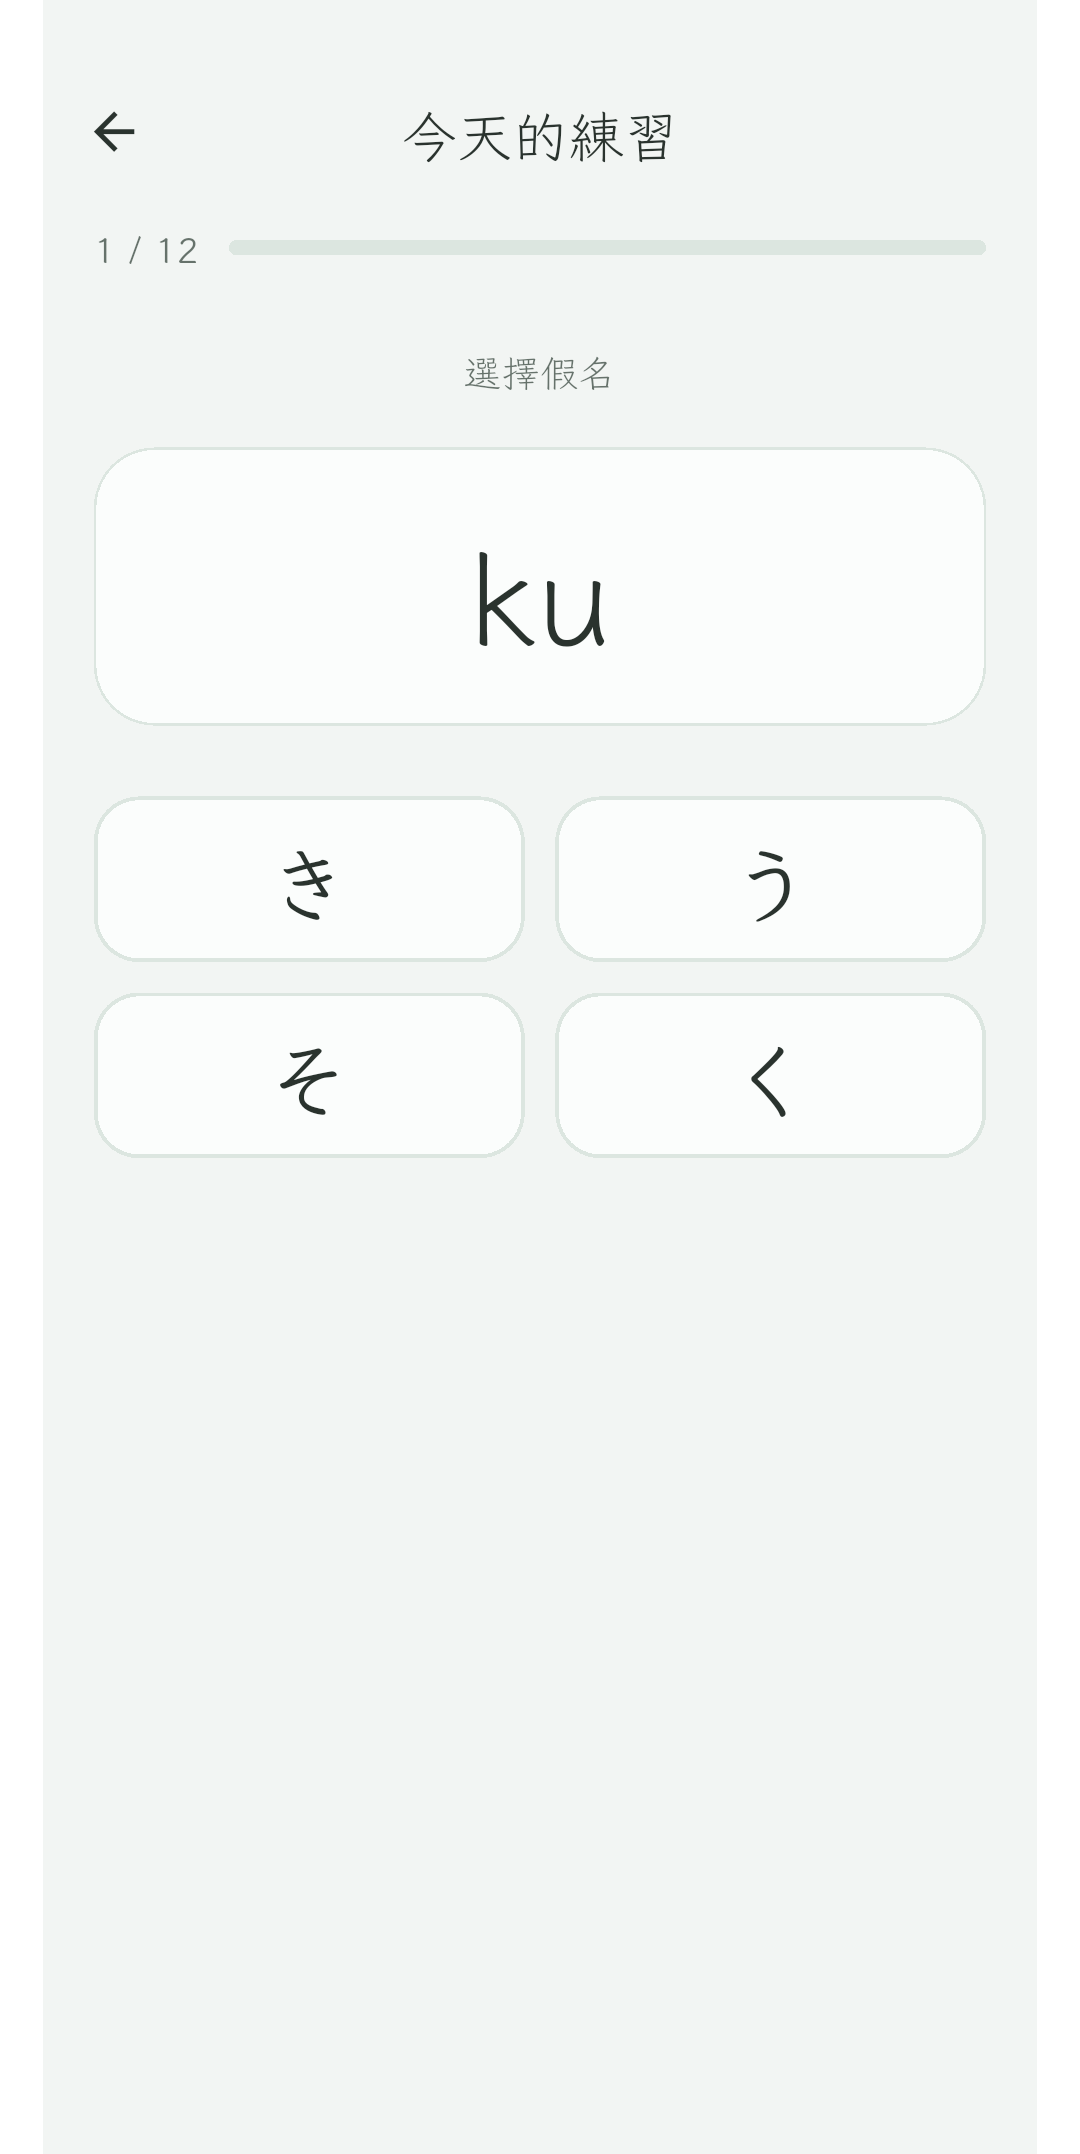
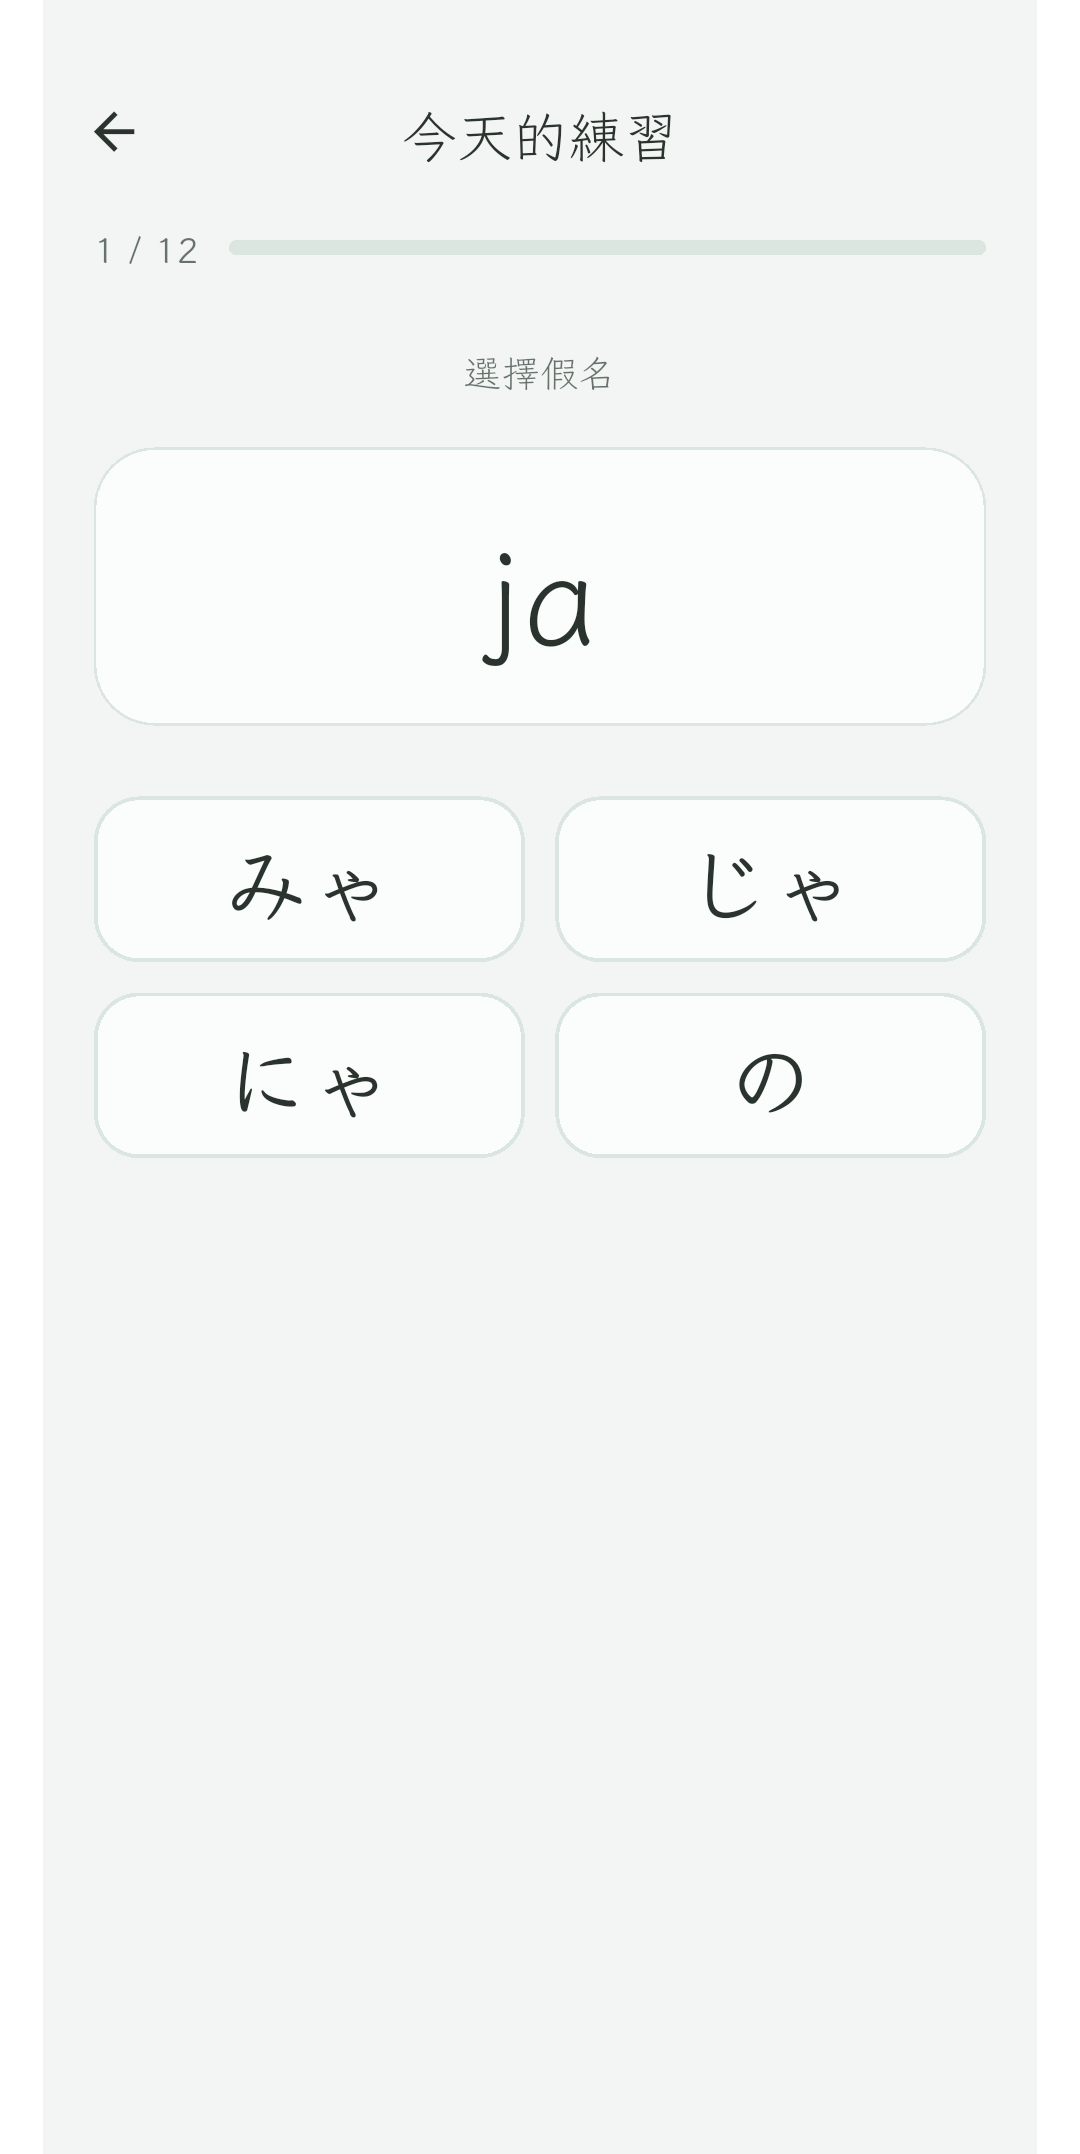
docs: capture the sentence reading screen
Harness now seeds all hiragana so every track unlocks; adds 06-sentence.

diff --git a/integration_test/screenshot_capture.dart b/integration_test/screenshot_capture.dart
@@ -8,6 +8,8 @@ import 'package:kotonoha/app.dart';
 import 'package:kotonoha/data/repositories/kana_progress_repository.dart';
 import 'package:kotonoha/data/services/analytics_log.dart';
 import 'package:kotonoha/data/services/speech_service.dart';
+import 'package:kotonoha/domain/models/kana.dart';
+import 'package:kotonoha/domain/use_cases/lessons.dart';
 import 'package:kotonoha/domain/use_cases/study_set.dart';
 import 'package:kotonoha/kanji/data/repositories/kanji_reading_repository.dart';
 import 'package:kotonoha/ui/core/app_strings.dart';
@@ -29,10 +31,10 @@ Future<void> main() async {
     await tester.binding.setSurfaceSize(const Size(393, 852));
     SharedPreferences.setMockInitialValues({});
     final store = await KanaProgressRepository.load();
-    // Learn the first three hiragana rows and record a spread of answers, so the
-    // ring, progress, reading entry, and a daily session all have real content.
-    for (final id in ['hira_row_0', 'hira_row_1', 'hira_row_2']) {
-      await store.markUnitLearned(id);
+    // Learn all hiragana and record a spread of answers, so every track (words,
+    // phrases, kanji, confusable, insights) is unlocked and populated.
+    for (final l in Lessons.fromKana(store.allKana)) {
+      if (l.script == KanaScript.hiragana) await store.markUnitLearned(l.id);
     }
     final learned = StudySet.learned(store);
     for (var i = 0; i < learned.length; i++) {
@@ -107,5 +109,18 @@ Future<void> main() async {
     await tester.pumpAndSettle();
     await tester.tap(find.text(AppStrings.kanjiReveal));
     await shot('05-kanji');
+    await back();
+
+    // Sentence reading — a themed mini-phrase, revealed.
+    await tester.scrollUntilVisible(
+      find.text(AppStrings.sentenceEntry),
+      120,
+      scrollable: find.byType(Scrollable).first,
+    );
+    await tester.pumpAndSettle();
+    await tester.tap(find.text(AppStrings.sentenceEntry));
+    await tester.pumpAndSettle();
+    await tester.tap(find.text(AppStrings.revealAnswer));
+    await shot('06-sentence');
   });
 }
